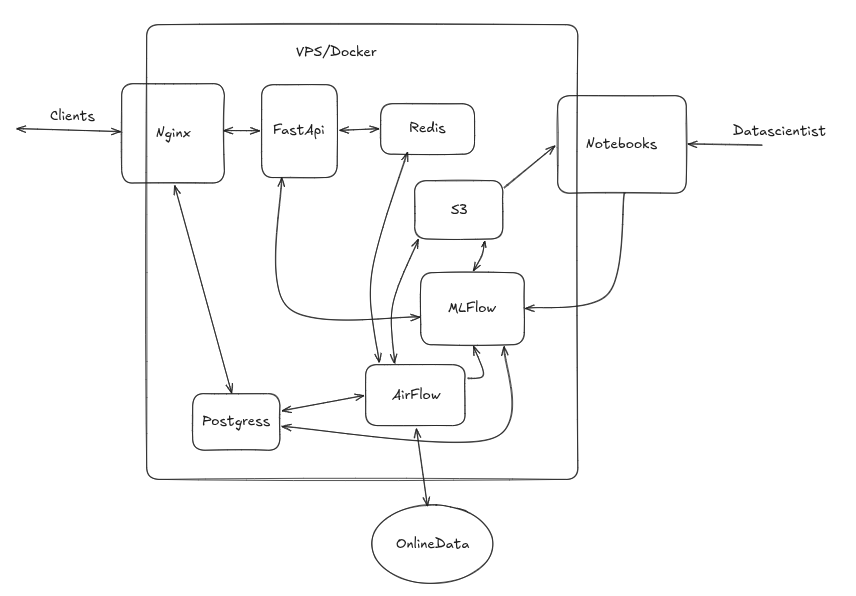
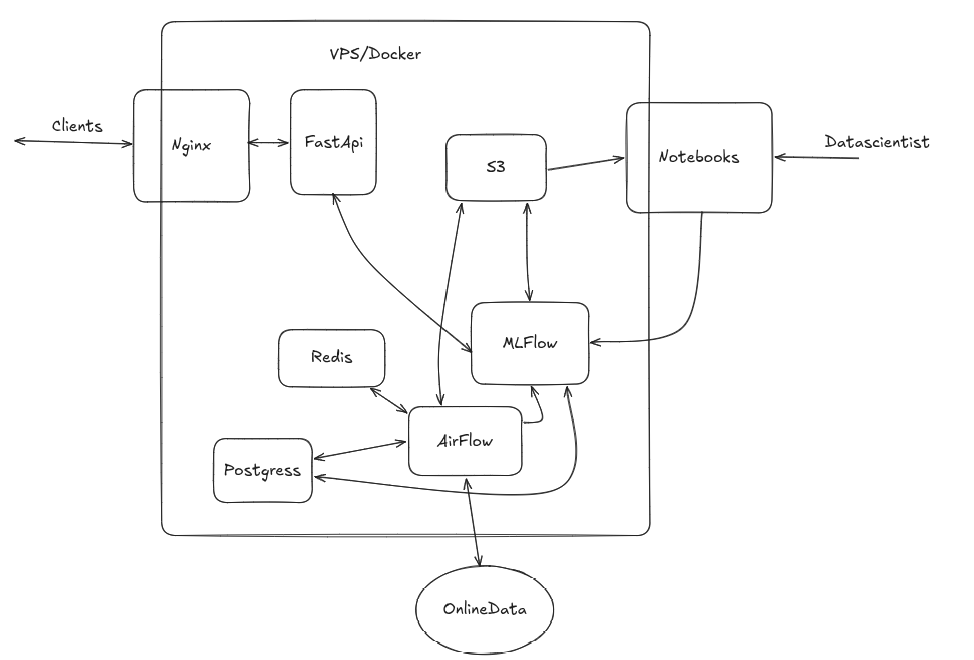
readme update

diff --git a/README.md b/README.md
@@ -18,7 +18,6 @@ La implementación incluye:
 
 - Apache Airflow
   - Un DAG que obtiene los datos desde google drive, lo verifica, realiza limpieza, escalamiento y encoding y guarda en el bucket los datos separados para entrenamiento y pruebas asi como su procesador de Sklearn. MLflow hace seguimiento de este procesamiento.
-  ![alt text](etlDag.png)
   - Un DAG (`train_student_performance.py`) que, dado un nuevo conjunto de datos, reentrena el modelo (Regresión Logística con búsqueda de hiperparámetros vía Optuna). Compara el nuevo modelo contra el champion actual usando `f1_weighted`, y si lo supera, lo reemplaza. Todo se registra en MLflow, incluyendo el path al preprocesador (`preprocessor_s3_path`) que usó ese entrenamiento.
 
 - Jupiter Notebooks
@@ -44,8 +43,8 @@ La implementación incluye:
 El orden para probar el funcionamiento completo es el siguiente:
 
 1. Levantar todo con `docker compose --profile all up -d --build`.
-2. Ejecutar el DAG de ETL en Airflow llamado `process_etl_student_performance`. Esto descargara el dataset y almacenara en el bucket la version cruda y la version procesada con su division en Train y Test asi como su procesador de Sklearn.
-3. Ejecutar el DAG `train_student_performance`, que entrena el modelo, lo compara contra el champion actual y lo promueve si es mejor. La primera vez que se corre, este entrenamiento pasa a ser el champion.
+2. Ejecutar el DAG de ETL en Airflow llamado `process_etl_student_performance`. Esto descargara el dataset y almacenara en el bucket la version cruda y la version procesada con su division en Train y Test asi como su procesador de Sklearn. Una vez finalizado, este dispara la ejecución del DAG `train_student_performance`.
+3. Esperar que termine de ejecutarse el DAG `train_student_performance`.
 4. Ingresar al frontend en `http://localhost:8081`, o probar la API directamente en `http://localhost:8800/docs` (Swagger interactivo).
 5. Hacer una predicción individual completando el formulario, o subir un CSV con varios estudiantes para predicción en batch (ver [Frontend](#frontend)).
 
